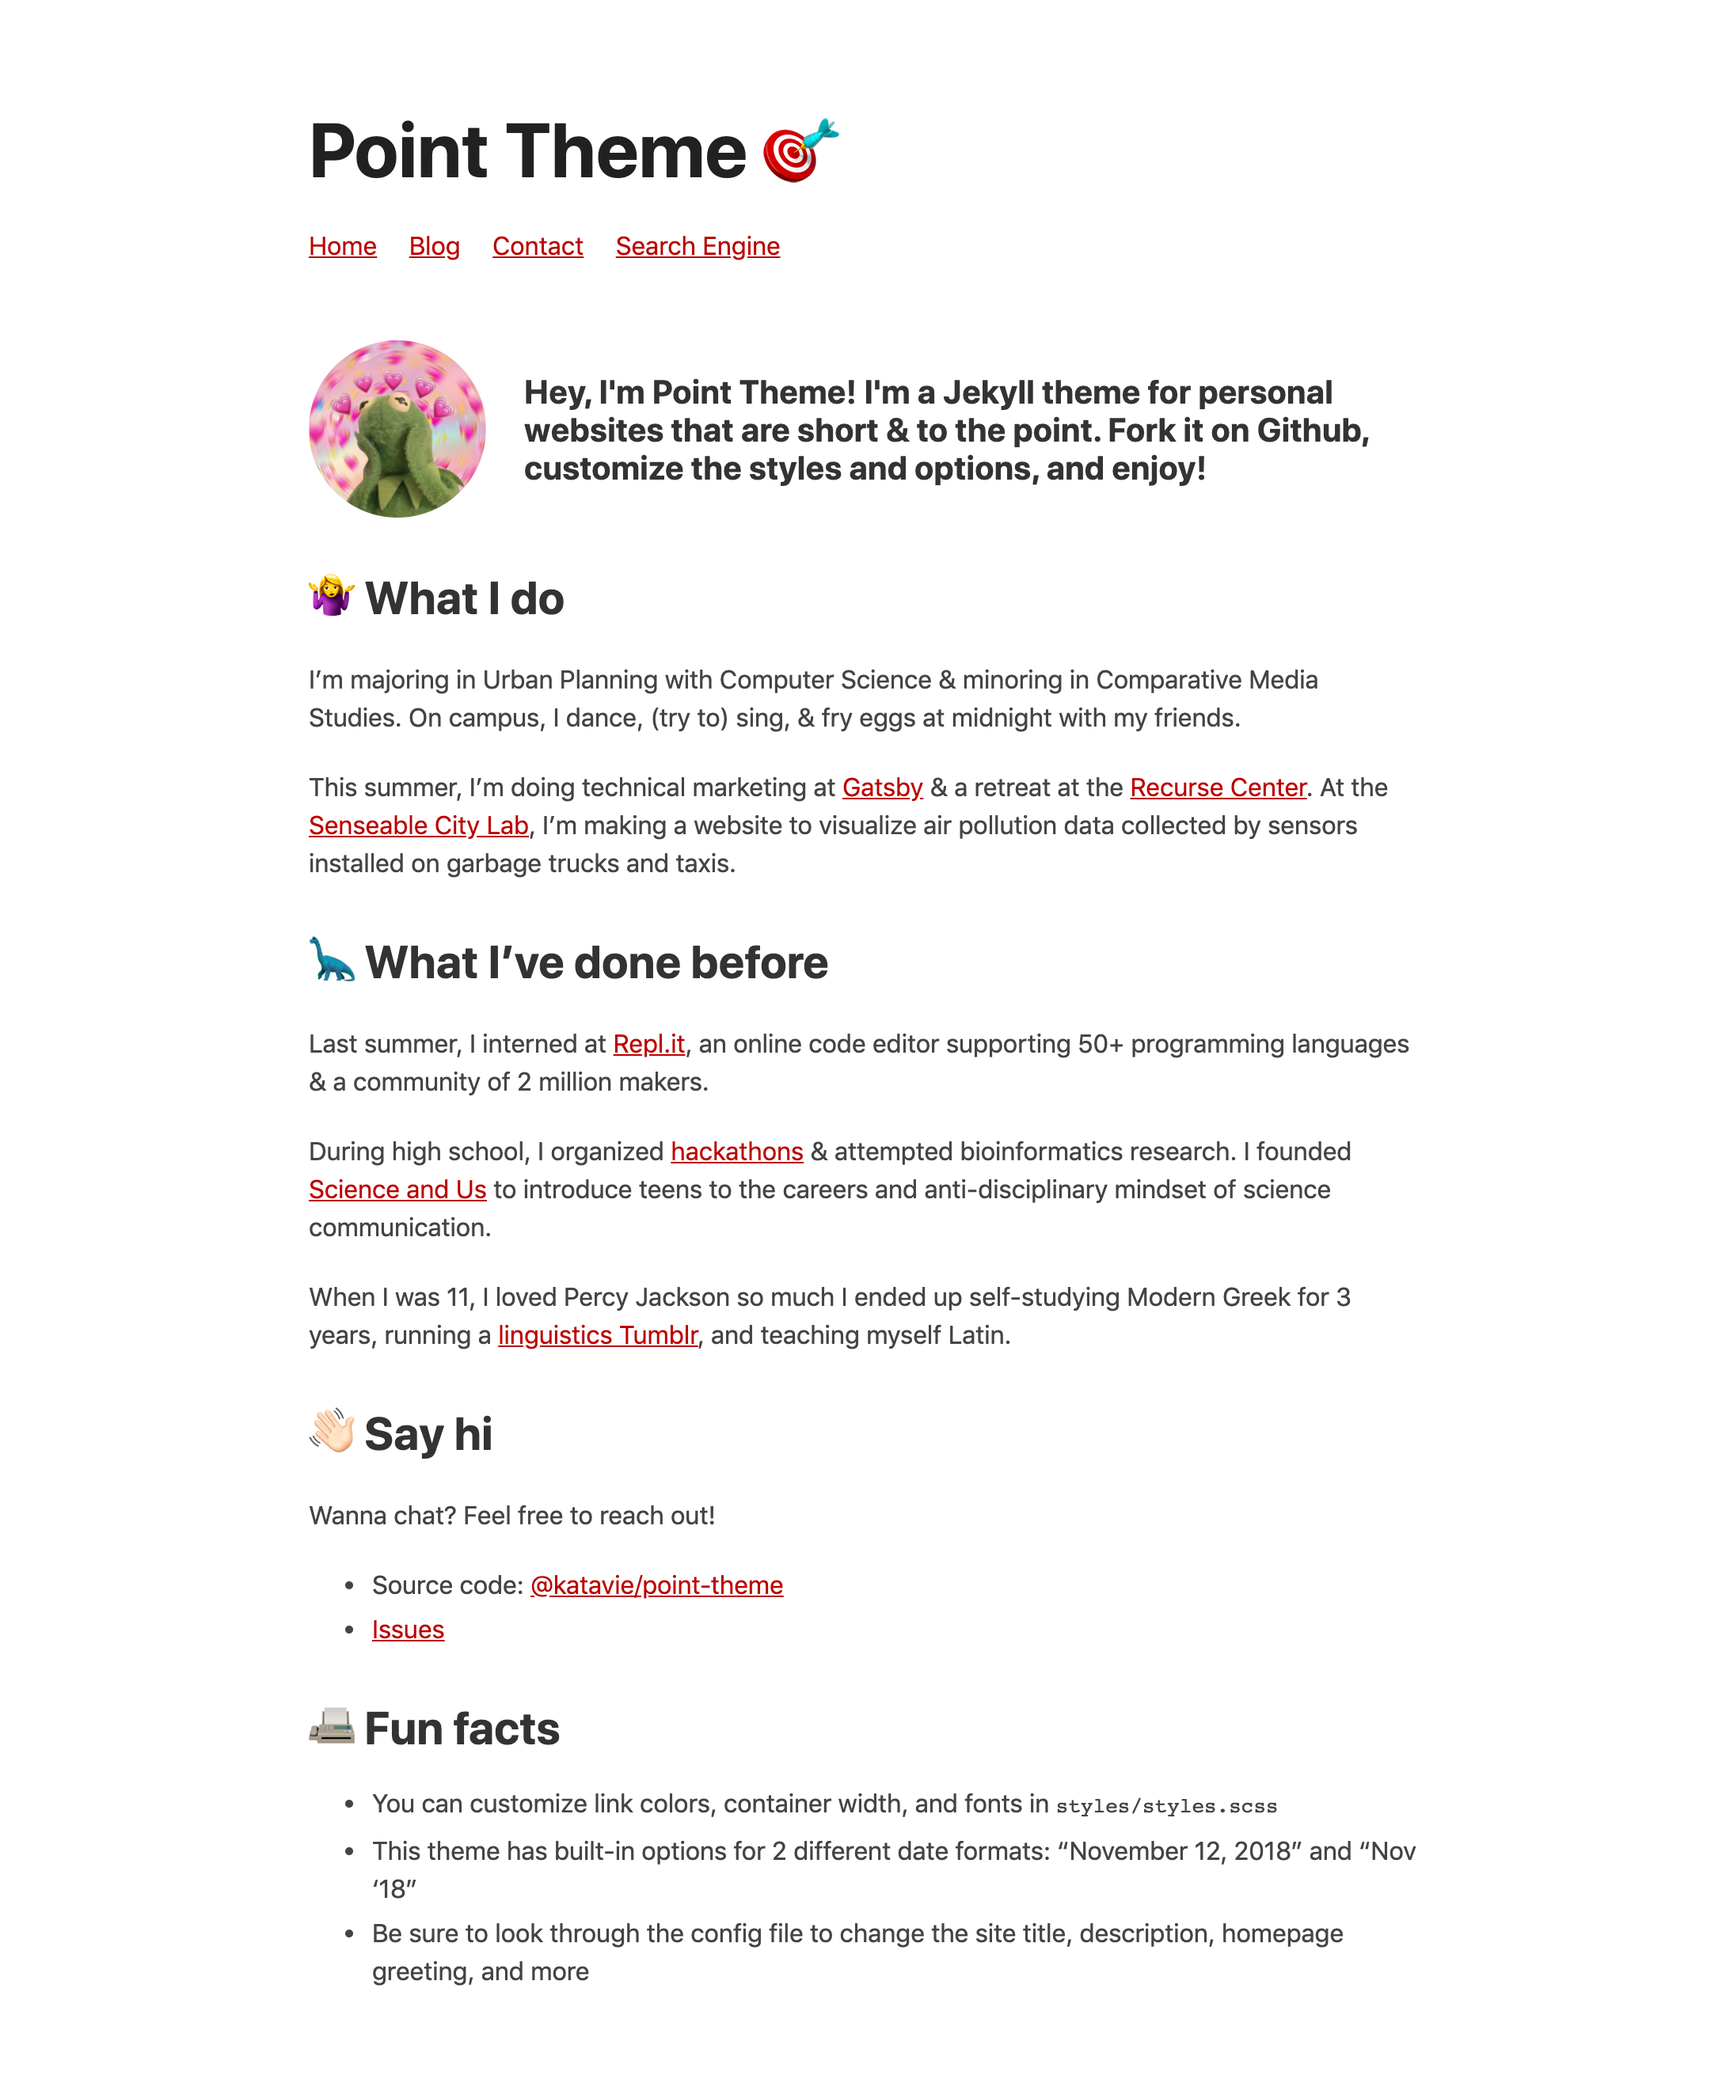
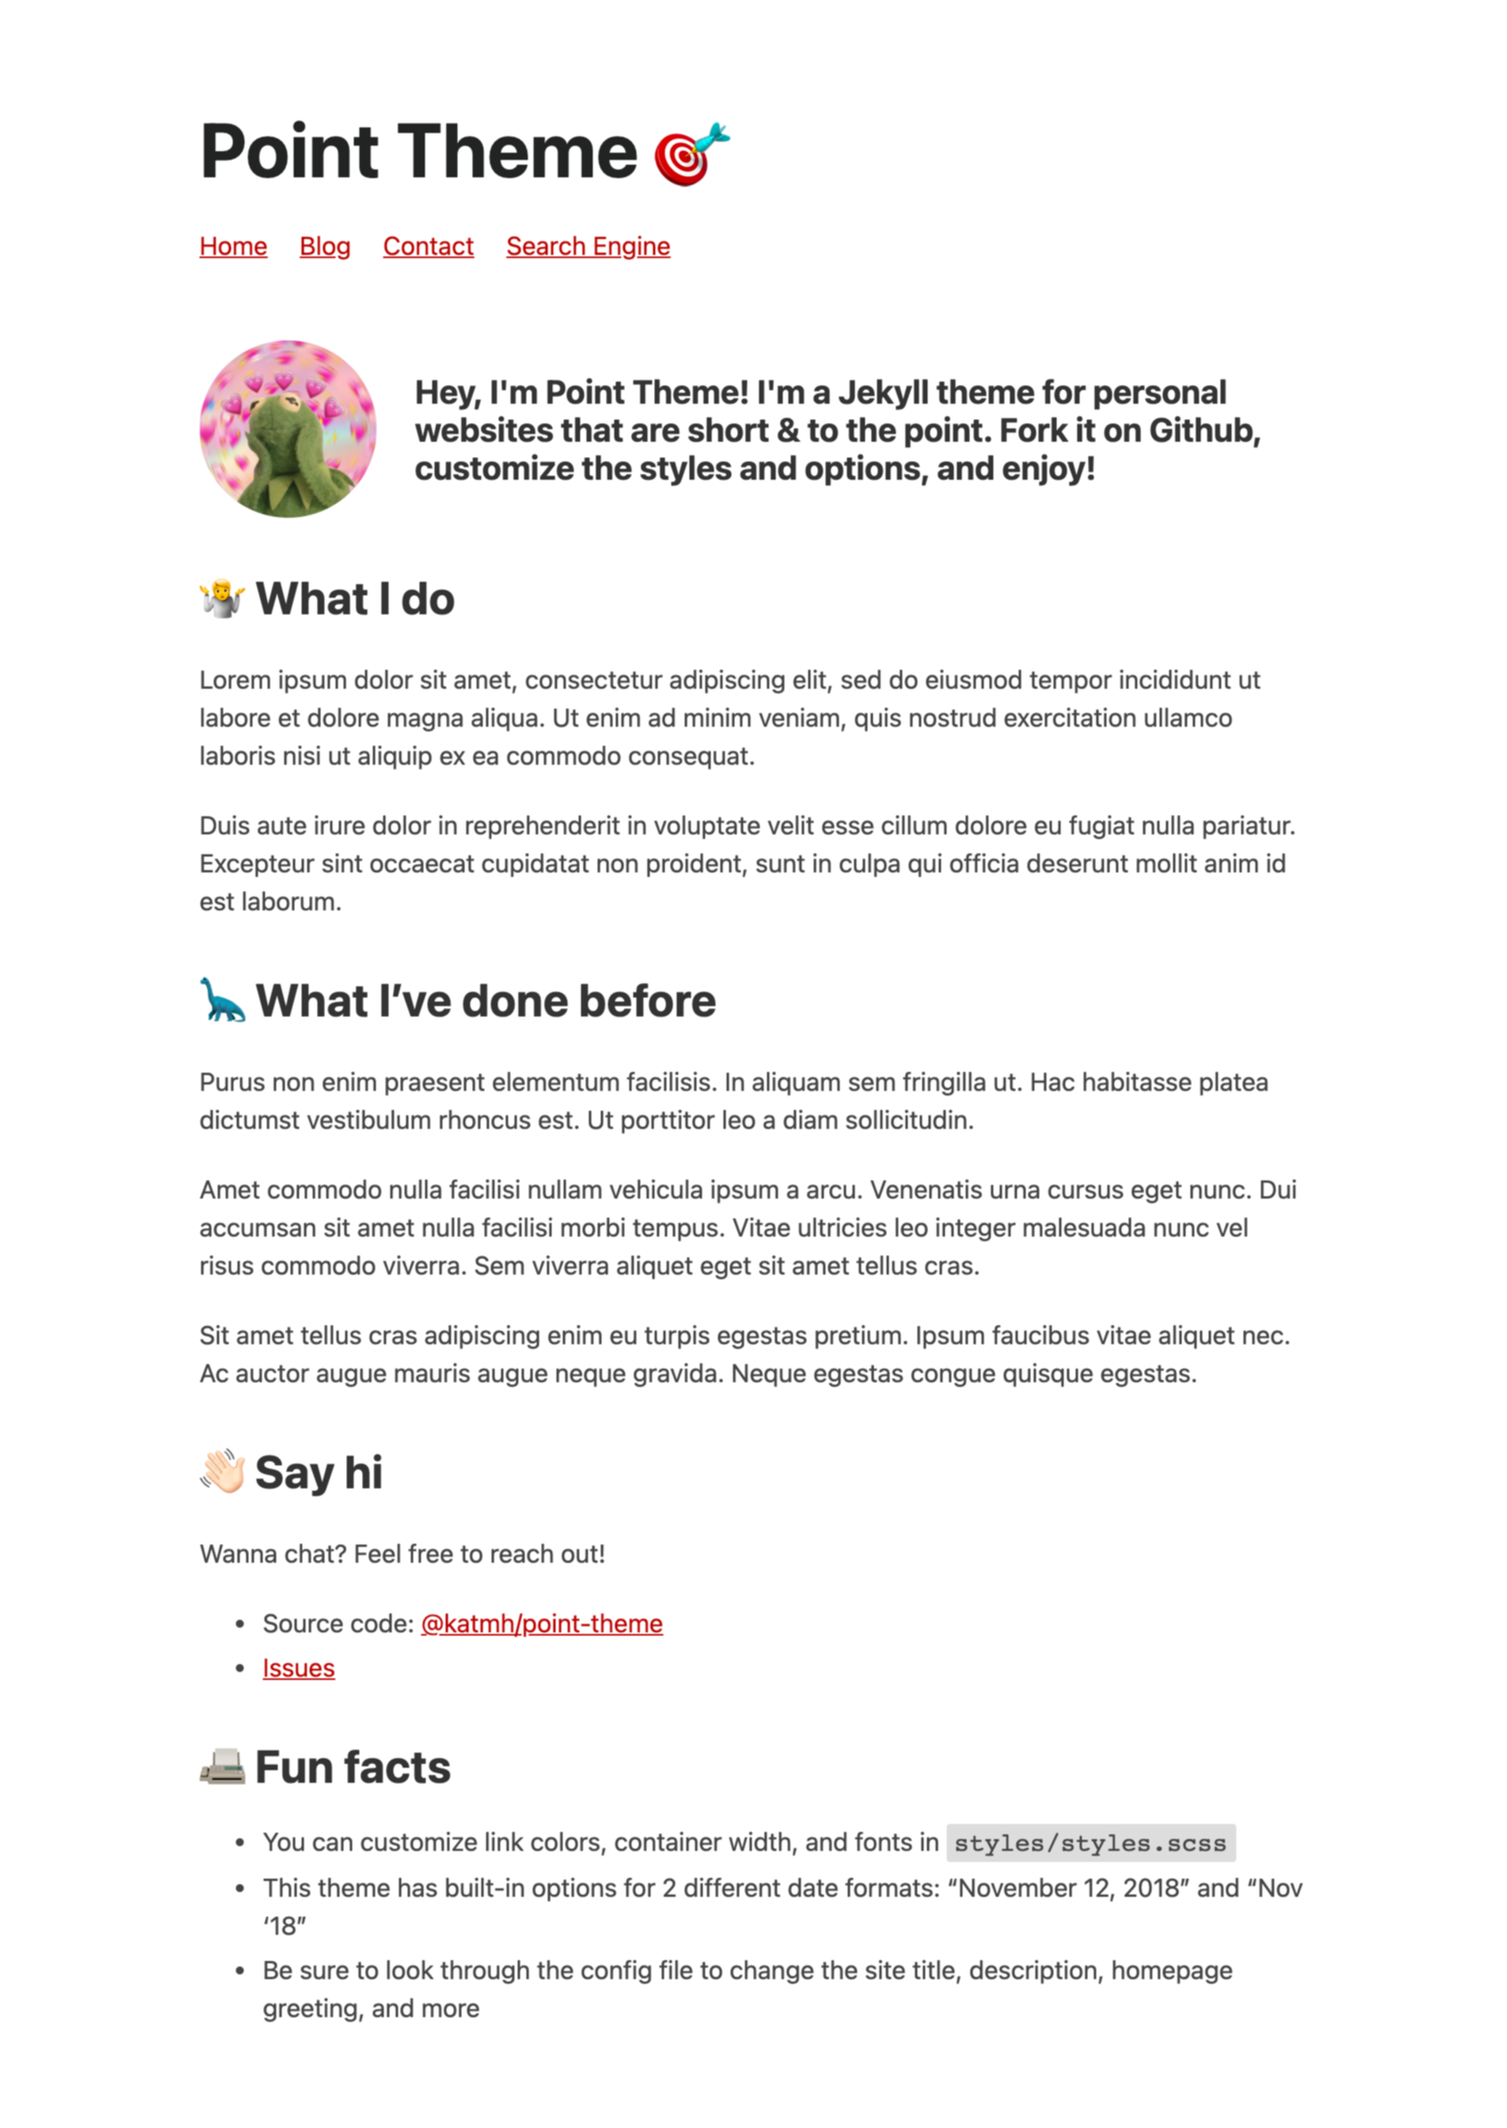
Lorem ipsum-ify, update preview image

Changed region(s): [[0.1239, 0.1552, 0.8676, 0.9621], [0.1239, 0.031, 0.4958, 0.1241]]

diff --git a/styles/styles.scss b/styles/styles.scss
@@ -4,6 +4,7 @@
 $accent-color: #b00; // link color
 $font-stack: system-ui, Helvetica, Arial, sans-serif;
 $heading-font-stack: system-ui, Helvetica, Arial, sans-serif; // use this to set a different font for your headings if you want
+$code-font-stack: Inconsolata, monospace; // fonts for inline code and code blocks
 $container-max-width: 700px;
 
 // reset
@@ -150,4 +151,11 @@ img {
 .timestamp-block {
   display: block;
   margin-top: 0.75rem;
+}
+
+code {
+  background: #ddd;
+  padding: 3px 5px;
+  border-radius: 2px;
+  font-family: $code-font-stack;
 }

diff --git a/_posts/2019-11-22-hipster-ipsum.md b/_posts/2019-11-22-hipster-ipsum.md
@@ -1,0 +1,15 @@
+---
+title: Hipster ipsum
+---
+
+Ennui church-key raclette blog wolf hell of keffiyeh cloud bread intelligentsia four loko irony cliche. Chicharrones selvage succulents pug adaptogen hot chicken activated charcoal offal unicorn godard meditation jean shorts banjo palo santo edison bulb. Single-origin coffee cardigan lumbersexual, tumeric kinfolk enamel pin bicycle rights literally blog coloring book echo park cornhole shaman. Mumblecore mlkshk chicharrones drinking vinegar, hot chicken health goth keytar.
+
+Kombucha wayfarers letterpress readymade cray enamel pin iPhone. Taiyaki brooklyn four dollar toast cardigan live-edge, kickstarter art party cornhole pok pok tilde salvia dreamcatcher. Lumbersexual bicycle rights af small batch umami, hoodie normcore four loko austin listicle tilde raw denim. Affogato man bun distillery small batch next level, seitan man braid asymmetrical cloud bread brunch unicorn master cleanse viral godard paleo. Tbh twee +1, etsy kickstarter man braid salvia next level live-edge. Migas hammock copper mug, whatever activated charcoal venmo meh next level austin photo booth. Single-origin coffee artisan stumptown fashion axe you probably haven't heard of them whatever vegan humblebrag messenger bag tofu 3 wolf moon meggings freegan.
+
+Fashion axe kitsch scenester, echo park truffaut YOLO selvage swag. Helvetica 90's migas snackwave, la croix echo park letterpress blog man braid food truck. Dreamcatcher pork belly DIY raw denim. 90's hoodie stumptown, single-origin coffee lyft mustache VHS brunch cardigan jianbing banjo organic you probably haven't heard of them pork belly. XOXO man braid paleo schlitz literally lyft church-key. Authentic lumbersexual fashion axe disrupt crucifix wayfarers pop-up edison bulb hell of. Retro vape cardigan crucifix pinterest gluten-free truffaut cronut offal swag master cleanse coloring book pour-over.
+
+Green juice copper mug meggings, tacos synth organic succulents poke fixie iPhone. Snackwave beard fixie williamsburg bushwick paleo disrupt deep v knausgaard cliche. Twee you probably haven't heard of them gochujang celiac jean shorts health goth. Salvia pok pok tousled cliche bespoke affogato tilde occupy freegan dreamcatcher offal prism.
+
+Next level helvetica hashtag, raw denim cronut paleo bitters XOXO. Aesthetic hexagon heirloom trust fund kombucha subway tile. Man braid lumbersexual air plant, locavore beard woke intelligentsia retro jean shorts listicle freegan pinterest. Cray typewriter food truck, tote bag cold-pressed blog austin slow-carb. Helvetica prism cornhole, shaman succulents four dollar toast you probably haven't heard of them pork belly. Fanny pack hoodie gentrify, austin umami williamsburg chartreuse tacos meditation pop-up keffiyeh pinterest freegan pickled tofu.
+
+Dummy text? More like dummy thicc text, amirite?

diff --git a/index.md b/index.md
@@ -3,24 +3,24 @@
 
 ## 🤷 What I do
 
-I'm majoring in Urban Planning with Computer Science & minoring in Comparative Media Studies. On campus, I dance, (try to) sing, & fry eggs at midnight with my friends.
+Lorem ipsum dolor sit amet, consectetur adipiscing elit, sed do eiusmod tempor incididunt ut labore et dolore magna aliqua. Ut enim ad minim veniam, quis nostrud exercitation ullamco laboris nisi ut aliquip ex ea commodo consequat.
 
-This summer, I’m doing technical marketing at [Gatsby](https://gatsbyjs.org/) & a retreat at the [Recurse Center](recurse.com). At the [Senseable City Lab](http://senseable.mit.edu/), I'm making a website to visualize air pollution data collected by sensors installed on garbage trucks and taxis.
+Duis aute irure dolor in reprehenderit in voluptate velit esse cillum dolore eu fugiat nulla pariatur. Excepteur sint occaecat cupidatat non proident, sunt in culpa qui officia deserunt mollit anim id est laborum.
 
 ## 🦕 What I've done before
 
-Last summer, I interned at [Repl.it](https://repl.it/), an online code editor supporting 50+ programming languages & a community of 2 million makers.
+Purus non enim praesent elementum facilisis. In aliquam sem fringilla ut. Hac habitasse platea dictumst vestibulum rhoncus est. Ut porttitor leo a diam sollicitudin.
 
-During high school, I organized [hackathons](http://mahacks.com/) & attempted bioinformatics research. I founded [Science and Us](http://scienceandus.org/) to introduce teens to the careers and anti-disciplinary mindset of science communication.
+Amet commodo nulla facilisi nullam vehicula ipsum a arcu. Venenatis urna cursus eget nunc. Dui accumsan sit amet nulla facilisi morbi tempus. Vitae ultricies leo integer malesuada nunc vel risus commodo viverra. Sem viverra aliquet eget sit amet tellus cras.
 
-When I was 11, I loved Percy Jackson so much I ended up self-studying Modern Greek for 3 years, running a [linguistics Tumblr](http://subjunctivelymoody.tumblr.com/), and teaching myself Latin.
+Sit amet tellus cras adipiscing enim eu turpis egestas pretium. Ipsum faucibus vitae aliquet nec. Ac auctor augue mauris augue neque gravida. Neque egestas congue quisque egestas.
 
 ## 👋🏻 Say hi
 
 Wanna chat? Feel free to reach out!
 
-- Source code: [@katavie/point-theme](http://github.com/katavie/point-theme)
-- [Issues](https://github.com/katavie/point-theme/issues)
+- Source code: [@katmh/point-theme](http://github.com/katmh/point-theme)
+- [Issues](https://github.com/katmh/point-theme/issues)
 
 ## 📠 Fun facts
 

diff --git a/about.md b/about.md
@@ -2,4 +2,6 @@
 title: About
 ---
 
-henlo uwu
+Gravida cum sociis natoque penatibus et magnis. Tempus egestas sed sed risus pretium. Lobortis scelerisque fermentum dui faucibus in ornare quam viverra orci. Donec enim diam vulputate ut pharetra sit. Odio ut sem nulla pharetra. Libero enim sed faucibus turpis in eu.
+
+A erat nam at lectus urna duis. Facilisis leo vel fringilla est. Ut tortor pretium viverra suspendisse potenti nullam ac. Eget magna fermentum iaculis eu non. Aliquam vestibulum morbi blandit cursus risus at ultrices mi.
